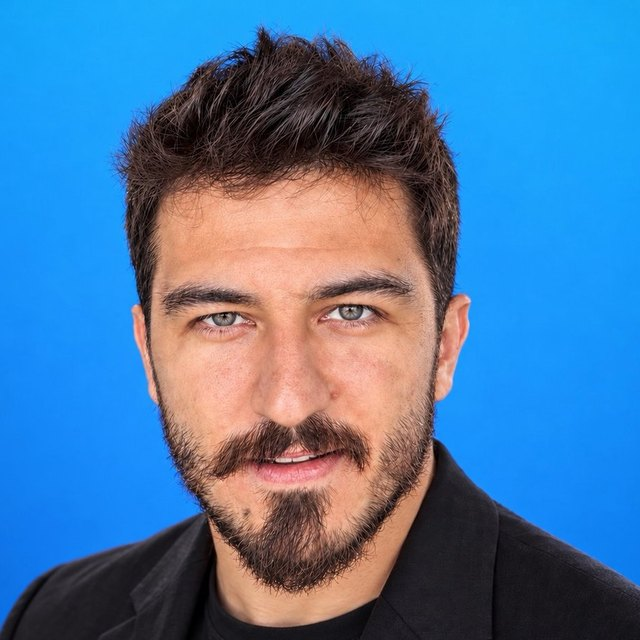
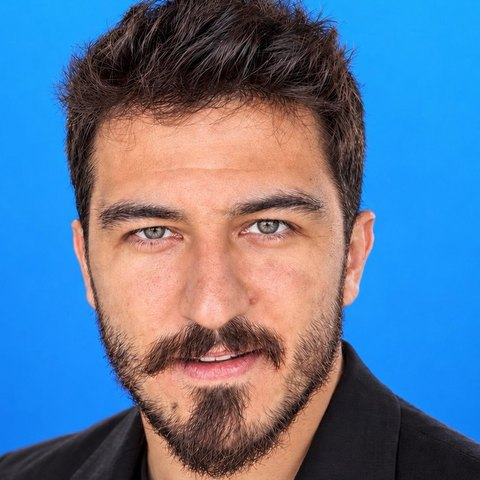
Academy: ulduz əvəzinə dairəvi portret
Claude-Session: https://claude.ai/code/session_012qHs8kvniUjVjktTYL2tXd

diff --git a/en/index.html b/en/index.html
@@ -503,12 +503,9 @@ section.band{padding-block:clamp(64px,8vw,112px)}
 .aslide.is-on{animation:asIn .55s cubic-bezier(.2,.8,.2,1) both}
 @keyframes asIn{from{opacity:0;transform:translateX(18px)}to{opacity:1;transform:none}}
 @media (prefers-reduced-motion:reduce){.aslide.is-on{animation:none}}
-.atr{display:flex;align-items:center;gap:clamp(18px,2.4vw,30px);margin:22px 0 30px}
-.astar{margin:0;position:relative;width:clamp(150px,14vw,184px);aspect-ratio:1;flex:none}
-.astar svg{position:absolute;inset:0;width:100%;height:100%;overflow:visible}
-.astar-o{transform:translate(9px,7px)}
-.astar-o path{fill:none;stroke:var(--bordo);stroke-width:.006}
-.astar-p image{filter:grayscale(1) contrast(1.05)}
+.atr{display:flex;align-items:center;gap:18px;margin:22px 0 28px}
+.aava{margin:0;width:clamp(84px,8vw,104px);aspect-ratio:1;flex:none;border-radius:50%;overflow:hidden;background:#D6D0C6;box-shadow:0 0 0 1px var(--rule)}
+.aava img{width:100%;height:100%;object-fit:cover;display:block;filter:grayscale(1) contrast(1.04)}
 .atr-n{display:block;font:400 clamp(22px,2.2vw,28px)/1.15 var(--display);letter-spacing:-.02em}
 .atr-r{display:block;font-size:14px;color:var(--muted);margin-top:4px}
 .academy .h2c{font-size:clamp(30px,3.4vw,44px);line-height:1.08}
@@ -678,7 +675,7 @@ footer{background:var(--night);color:#8A8A8A;padding-block:clamp(20px,2.5vw,32px
       <div class="agrid">
         <div class="aintro">
           <p class="kicker" data-i="cn.k">Blogstar Academy · Fərdi təlim</p>
-          <div class="atr"><figure class="astar"><svg viewBox="0 0 1 1" aria-hidden="true" class="astar-o"><path d="M0.4625,0.0884 Q0.5000,0.0300 0.5375,0.0884 L0.6500,0.2635 Q0.6705,0.2954 0.7071,0.3050 L0.9084,0.3579 Q0.9755,0.3755 0.9316,0.4292 L0.7998,0.5903 Q0.7758,0.6196 0.7780,0.6574 L0.7899,0.8652 Q0.7939,0.9345 0.7292,0.9093 L0.5353,0.8337 Q0.5000,0.8200 0.4647,0.8337 L0.2708,0.9093 Q0.2061,0.9345 0.2101,0.8652 L0.2220,0.6574 Q0.2242,0.6196 0.2002,0.5903 L0.0684,0.4292 Q0.0245,0.3755 0.0916,0.3579 L0.2929,0.3050 Q0.3295,0.2954 0.3500,0.2635 Z"/></svg><svg viewBox="0 0 1 1" role="img" aria-label="Cəfər Nəcəfov" class="astar-p"><defs><clipPath id="cnStar" clipPathUnits="objectBoundingBox"><path d="M0.4625,0.0884 Q0.5000,0.0300 0.5375,0.0884 L0.6500,0.2635 Q0.6705,0.2954 0.7071,0.3050 L0.9084,0.3579 Q0.9755,0.3755 0.9316,0.4292 L0.7998,0.5903 Q0.7758,0.6196 0.7780,0.6574 L0.7899,0.8652 Q0.7939,0.9345 0.7292,0.9093 L0.5353,0.8337 Q0.5000,0.8200 0.4647,0.8337 L0.2708,0.9093 Q0.2061,0.9345 0.2101,0.8652 L0.2220,0.6574 Q0.2242,0.6196 0.2002,0.5903 L0.0684,0.4292 Q0.0245,0.3755 0.0916,0.3579 L0.2929,0.3050 Q0.3295,0.2954 0.3500,0.2635 Z"/></clipPath></defs><image href="/img/academy/cefer-necefov.jpg" x="0" y="0" width="1" height="1" preserveAspectRatio="xMidYMid slice" clip-path="url(#cnStar)"/></svg></figure><div><b class="atr-n">Cəfər Nəcəfov</b><span class="atr-r" data-i="cn.r">Təlimçi</span></div></div>
+          <div class="atr"><figure class="aava"><img src="/img/academy/cefer-necefov.jpg" alt="Cəfər Nəcəfov" width="480" height="480" loading="lazy"></figure><div><b class="atr-n">Cəfər Nəcəfov</b><span class="atr-r" data-i="cn.r">Təlimçi</span></div></div>
           <h2 class="h2 h2c" id="at-cn" data-i="cn.t">Instagramın sirləri: alqoritm, alətlər və süni intellekt</h2>
           <p class="alead" data-i="cn.lead">Instagramın işləmə prinsiplərini dərindən öyrədən fərdi təlim. Alqoritmin məntiqi, platformanın az bilinən imkanları və süni intellekt əsaslı alətlərlə kontent hazırlanması praktik nümunələr üzərində izah olunur.</p>
           <ul class="afmt"><li data-i="cn.f1">Instagram alqoritmi</li><li data-i="cn.f2">AI alətləri</li><li data-i="cn.f3">Platformanın gizli imkanları</li></ul>

diff --git a/index.html b/index.html
@@ -503,12 +503,9 @@ section.band{padding-block:clamp(64px,8vw,112px)}
 .aslide.is-on{animation:asIn .55s cubic-bezier(.2,.8,.2,1) both}
 @keyframes asIn{from{opacity:0;transform:translateX(18px)}to{opacity:1;transform:none}}
 @media (prefers-reduced-motion:reduce){.aslide.is-on{animation:none}}
-.atr{display:flex;align-items:center;gap:clamp(18px,2.4vw,30px);margin:22px 0 30px}
-.astar{margin:0;position:relative;width:clamp(150px,14vw,184px);aspect-ratio:1;flex:none}
-.astar svg{position:absolute;inset:0;width:100%;height:100%;overflow:visible}
-.astar-o{transform:translate(9px,7px)}
-.astar-o path{fill:none;stroke:var(--bordo);stroke-width:.006}
-.astar-p image{filter:grayscale(1) contrast(1.05)}
+.atr{display:flex;align-items:center;gap:18px;margin:22px 0 28px}
+.aava{margin:0;width:clamp(84px,8vw,104px);aspect-ratio:1;flex:none;border-radius:50%;overflow:hidden;background:#D6D0C6;box-shadow:0 0 0 1px var(--rule)}
+.aava img{width:100%;height:100%;object-fit:cover;display:block;filter:grayscale(1) contrast(1.04)}
 .atr-n{display:block;font:400 clamp(22px,2.2vw,28px)/1.15 var(--display);letter-spacing:-.02em}
 .atr-r{display:block;font-size:14px;color:var(--muted);margin-top:4px}
 .academy .h2c{font-size:clamp(30px,3.4vw,44px);line-height:1.08}
@@ -678,7 +675,7 @@ footer{background:var(--night);color:#8A8A8A;padding-block:clamp(20px,2.5vw,32px
       <div class="agrid">
         <div class="aintro">
           <p class="kicker" data-i="cn.k">Blogstar Academy · Fərdi təlim</p>
-          <div class="atr"><figure class="astar"><svg viewBox="0 0 1 1" aria-hidden="true" class="astar-o"><path d="M0.4625,0.0884 Q0.5000,0.0300 0.5375,0.0884 L0.6500,0.2635 Q0.6705,0.2954 0.7071,0.3050 L0.9084,0.3579 Q0.9755,0.3755 0.9316,0.4292 L0.7998,0.5903 Q0.7758,0.6196 0.7780,0.6574 L0.7899,0.8652 Q0.7939,0.9345 0.7292,0.9093 L0.5353,0.8337 Q0.5000,0.8200 0.4647,0.8337 L0.2708,0.9093 Q0.2061,0.9345 0.2101,0.8652 L0.2220,0.6574 Q0.2242,0.6196 0.2002,0.5903 L0.0684,0.4292 Q0.0245,0.3755 0.0916,0.3579 L0.2929,0.3050 Q0.3295,0.2954 0.3500,0.2635 Z"/></svg><svg viewBox="0 0 1 1" role="img" aria-label="Cəfər Nəcəfov" class="astar-p"><defs><clipPath id="cnStar" clipPathUnits="objectBoundingBox"><path d="M0.4625,0.0884 Q0.5000,0.0300 0.5375,0.0884 L0.6500,0.2635 Q0.6705,0.2954 0.7071,0.3050 L0.9084,0.3579 Q0.9755,0.3755 0.9316,0.4292 L0.7998,0.5903 Q0.7758,0.6196 0.7780,0.6574 L0.7899,0.8652 Q0.7939,0.9345 0.7292,0.9093 L0.5353,0.8337 Q0.5000,0.8200 0.4647,0.8337 L0.2708,0.9093 Q0.2061,0.9345 0.2101,0.8652 L0.2220,0.6574 Q0.2242,0.6196 0.2002,0.5903 L0.0684,0.4292 Q0.0245,0.3755 0.0916,0.3579 L0.2929,0.3050 Q0.3295,0.2954 0.3500,0.2635 Z"/></clipPath></defs><image href="/img/academy/cefer-necefov.jpg" x="0" y="0" width="1" height="1" preserveAspectRatio="xMidYMid slice" clip-path="url(#cnStar)"/></svg></figure><div><b class="atr-n">Cəfər Nəcəfov</b><span class="atr-r" data-i="cn.r">Təlimçi</span></div></div>
+          <div class="atr"><figure class="aava"><img src="/img/academy/cefer-necefov.jpg" alt="Cəfər Nəcəfov" width="480" height="480" loading="lazy"></figure><div><b class="atr-n">Cəfər Nəcəfov</b><span class="atr-r" data-i="cn.r">Təlimçi</span></div></div>
           <h2 class="h2 h2c" id="at-cn" data-i="cn.t">Instagramın sirləri: alqoritm, alətlər və süni intellekt</h2>
           <p class="alead" data-i="cn.lead">Instagramın işləmə prinsiplərini dərindən öyrədən fərdi təlim. Alqoritmin məntiqi, platformanın az bilinən imkanları və süni intellekt əsaslı alətlərlə kontent hazırlanması praktik nümunələr üzərində izah olunur.</p>
           <ul class="afmt"><li data-i="cn.f1">Instagram alqoritmi</li><li data-i="cn.f2">AI alətləri</li><li data-i="cn.f3">Platformanın gizli imkanları</li></ul>
